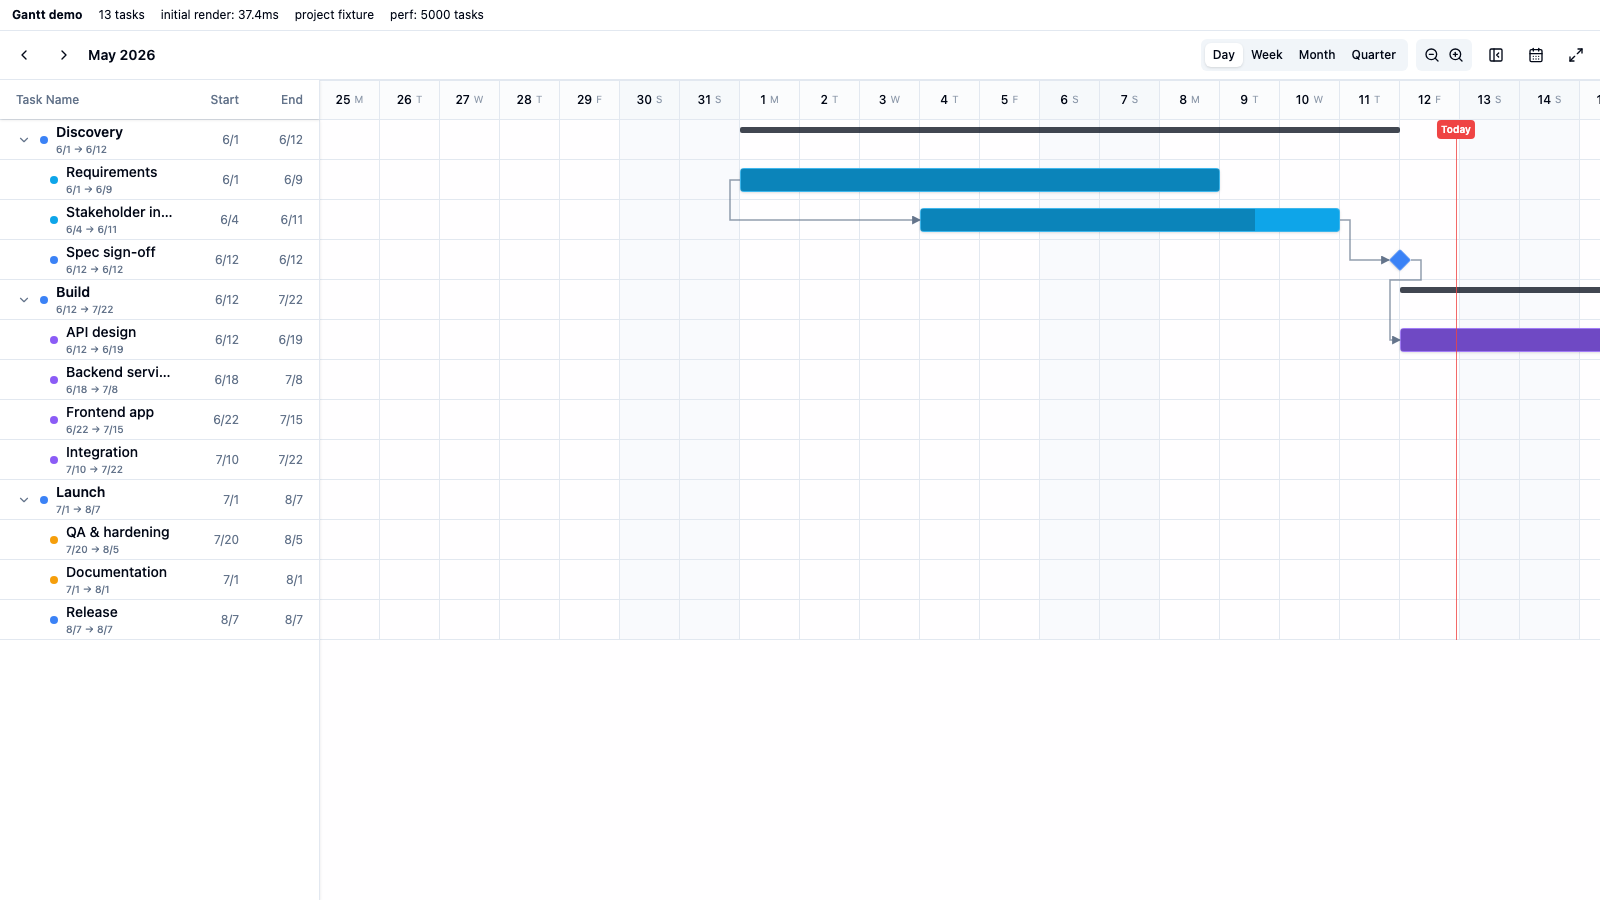
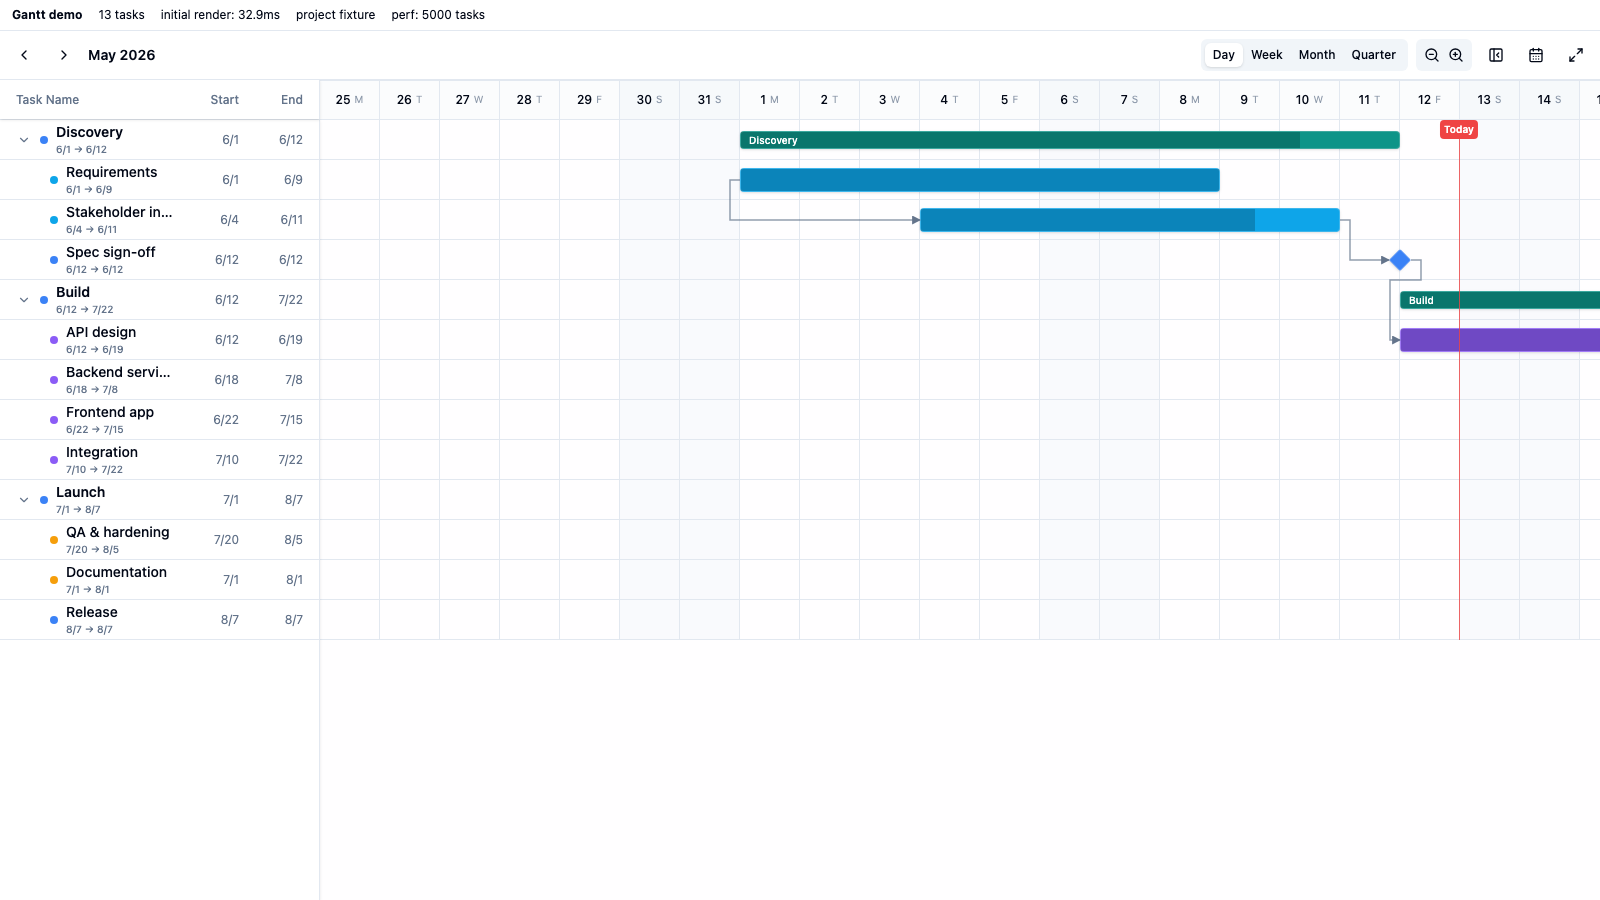
feat(gantt): restyle summary rows as solid colored bars with title + rollup progress

diff --git a/packages/plugin-gantt/src/GanttView.tsx b/packages/plugin-gantt/src/GanttView.tsx
@@ -1021,8 +1021,10 @@ export function GanttView({
   // The diamond is a square rotated 45° around its center at the task date;
   // its horizontal tips sit half a diagonal out from that center.
   const milestoneHalfTip = (milestoneSize * Math.SQRT2) / 2;
-  const summaryBracketTop = Math.round(rowHeight * 0.18);
-  const summaryBracketHeight = 6;
+  // Summary bars are slightly slimmer than task bars but share their vertical
+  // center, so link anchors are uniform across row kinds.
+  const summaryBarHeight = Math.max(barHeight - 6, 10);
+  const summaryBarTop = Math.round((rowHeight - summaryBarHeight) / 2);
 
   // Orthogonal elbow path from the predecessor anchor to the dependent
   // anchor. Anchors per link type: fs = source end → target start,
@@ -1033,10 +1035,10 @@ export function GanttView({
     if (!source || !target) return null;
     const s = getLiveRowStyle(source);
     const tg = getLiveRowStyle(target);
-    // Vertical anchor: bar/diamond center, except summary rows whose slim
-    // bracket hangs near the row top.
+    // Vertical anchor: every row kind (bar, diamond, summary bar) is centered
+    // in its row; summary uses its own top/height so rounding stays exact.
     const rowAnchorY = (row: GanttRow) =>
-      row.isSummary ? summaryBracketTop + summaryBracketHeight / 2 : rowHeight / 2;
+      row.isSummary ? summaryBarTop + summaryBarHeight / 2 : rowHeight / 2;
     const sy = link.sourceIndex * rowHeight + rowAnchorY(source);
     const ty = link.targetIndex * rowHeight + rowAnchorY(target);
     const exitRight = link.type === 'fs' || link.type === 'ff';
@@ -1542,8 +1544,11 @@ export function GanttView({
                    ) : null;
 
                    if (row.isSummary) {
-                     // Summary bracket: slim bar with downward end caps spanning
-                     // the children rollup. Read-only — children drive its range.
+                     // Summary bar: a solid row-centered bar (slightly slimmer
+                     // than task bars) with the title and a darker progress
+                     // fill, like svar/MS-Project group bars. Children drive
+                     // its range; dragging it moves the whole subtree.
+                     const summaryColor = task.color || '#0d9488';
                      return (
                       <div
                         key={task.id}
@@ -1552,17 +1557,28 @@ export function GanttView({
                         onPointerMove={clearLinkTarget}
                       >
                         <div
-                          className={`absolute rounded-[2px] ${onTaskUpdate ? 'cursor-grab' : ''} ${isDragging ? 'ring-2 ring-primary' : ''}`}
-                          /* Explicit color: bg-foreground/75 isn't emitted in
+                          className={cn(
+                            'gantt-bar-hover absolute rounded-sm border shadow-sm flex items-center px-2 select-none',
+                            onTaskUpdate ? 'cursor-grab active:cursor-grabbing' : 'cursor-pointer',
+                            isDragging && 'ring-2 ring-primary z-10'
+                          )}
+                          /* Explicit colors: alpha utilities aren't emitted in
                              the prebuilt components CSS. */
-                          style={{ left: liveStyle.left, width: liveStyle.width, top: summaryBracketTop, height: summaryBracketHeight, backgroundColor: 'hsl(var(--foreground) / 0.75)' }}
+                          style={{
+                            left: liveStyle.left,
+                            width: liveStyle.width,
+                            top: summaryBarTop,
+                            height: summaryBarHeight,
+                            backgroundColor: summaryColor,
+                            borderColor: 'hsl(var(--primary-foreground) / 0.2)',
+                          }}
                           data-testid={`gantt-summary-bar-${task.id}`}
                           data-progress={Math.round(row.progress)}
                           onMouseEnter={() => setHoveredTaskId(task.id)}
                           onMouseLeave={() => setHoveredTaskId((cur) => (cur === task.id ? null : cur))}
                           onPointerDown={(e) => {
                             if (e.button !== 0) return;
-                            // Group move: the bracket drags the whole subtree.
+                            // Group move: the summary bar drags the whole subtree.
                             beginDrag(task, 'move', e, { group: true, originStart: row.start, originEnd: row.end });
                           }}
                           onClick={() => {
@@ -1571,13 +1587,19 @@ export function GanttView({
                           }}
                           onContextMenu={(e) => openContextMenu(task, e)}
                         >
-                          <div className="absolute left-0 top-0 w-[3px] rounded-b-[2px]" style={{ height: 12, backgroundColor: 'hsl(var(--foreground) / 0.75)' }} />
-                          <div className="absolute right-0 top-0 w-[3px] rounded-b-[2px]" style={{ height: 12, backgroundColor: 'hsl(var(--foreground) / 0.75)' }} />
+                          {/* Rollup progress fill */}
+                          <div
+                            className="absolute left-0 top-0 bottom-0 rounded-l-sm pointer-events-none"
+                            style={{ width: `${Math.round(row.progress)}%`, backgroundColor: 'rgba(0, 0, 0, 0.2)' }}
+                          />
+                          <span className="relative text-[10px] text-white font-medium truncate pointer-events-none">
+                            {task.title}
+                          </span>
                         </div>
                         {isDragging && dragState && (
                           <div
                             className="absolute z-30 pointer-events-none rounded border bg-popover text-popover-foreground px-1.5 py-0.5 text-[10px] shadow whitespace-nowrap"
-                            style={{ left: Math.max(liveStyle.left, 4), top: summaryBracketTop + summaryBracketHeight + 4 }}
+                            style={{ left: Math.max(liveStyle.left, 4), top: summaryBarTop + summaryBarHeight + 2 }}
                             data-testid={`gantt-summary-drag-chip-${task.id}`}
                           >
                             {computeDragChanges(dragState).start.toLocaleDateString(undefined, { month: 'numeric', day: 'numeric' })}

diff --git a/packages/plugin-gantt/docs/verification/README.md b/packages/plugin-gantt/docs/verification/README.md
@@ -17,8 +17,8 @@ node packages/plugin-gantt/scripts/verify-browser.mjs
 
 ### 1. Hierarchy, milestones, dependency links
 
-- 13 tree rows (3 summary groups + 8 tasks + 2 milestones), 3 summary
-  brackets, 2 milestone diamonds.
+- 13 tree rows (3 summary groups + 8 tasks + 2 milestones), 3 solid summary
+  bars (title + rollup progress fill), 2 milestone diamonds.
 - 10 dependency arrows covering **all four link types** (`fs`, `ss`, `ff`,
   `sf`), plus the red Today line and both custom markers (Sprint 2,
   Code freeze).
@@ -57,7 +57,8 @@ within ±0.4 px** of the expected anchors:
 - task bars: edge × vertical center (bars carry explicit inline `top`/`height`
   so they are exactly row-centered),
 - milestones: the diamond's visual tip (half a diagonal out from center),
-- summary rows: the rollup bracket's own center, not the row center.
+- summary rows: the solid summary bar's own center (row-centered, slightly
+  slimmer than task bars).
 
 Zoomed clips of each arrow's target anchor are saved under
 [`geometry/`](geometry/), e.g. an `fs` arrow meeting a milestone tip:
@@ -69,13 +70,13 @@ Zoomed clips of each arrow's target anchor are saved under
 [`scripts/verify-group-drag.mjs`](../../scripts/verify-group-drag.mjs) drives
 real mouse drags in week mode (5/5 checks passed):
 
-- Dragging the *Build* summary bracket moves the **whole subtree**: mid-drag
-  every child bar preview-shifts with the bracket and a date chip shows the
+- Dragging the *Build* summary bar moves the **whole subtree**: mid-drag
+  every child bar preview-shifts with the summary and a date chip shows the
   new range; on drop all 5 tasks commit exactly +14 days with durations and
   internal spacing preserved.
 - Dragging the *Integration* child +7 days past the parent's end stretches
-  the bracket via rollup — parent start stays pinned to the earliest child,
-  parent end follows the moved child.
+  the summary bar via rollup — parent start stays pinned to the earliest
+  child, parent end follows the moved child.
 - ![Group drag mid-flight with date chip](09-group-drag-mid.png)
 - ![Whole subtree committed +14 days](10-group-drag-committed.png)
 - ![Child drag stretches the parent bracket](11-child-drag-stretches-parent.png)
